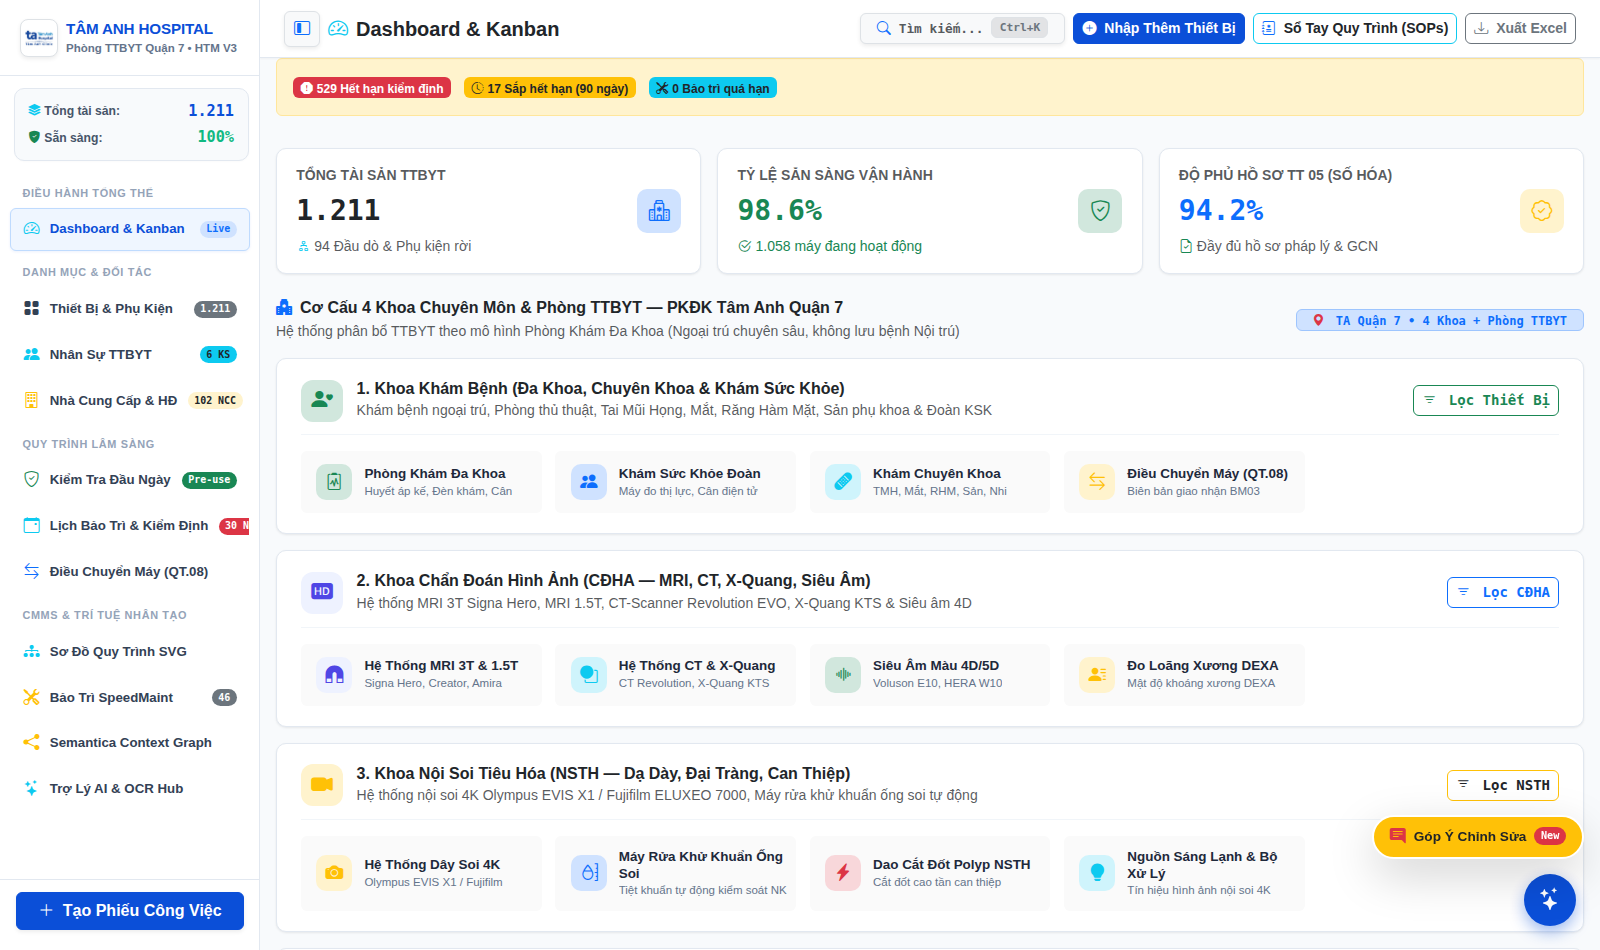
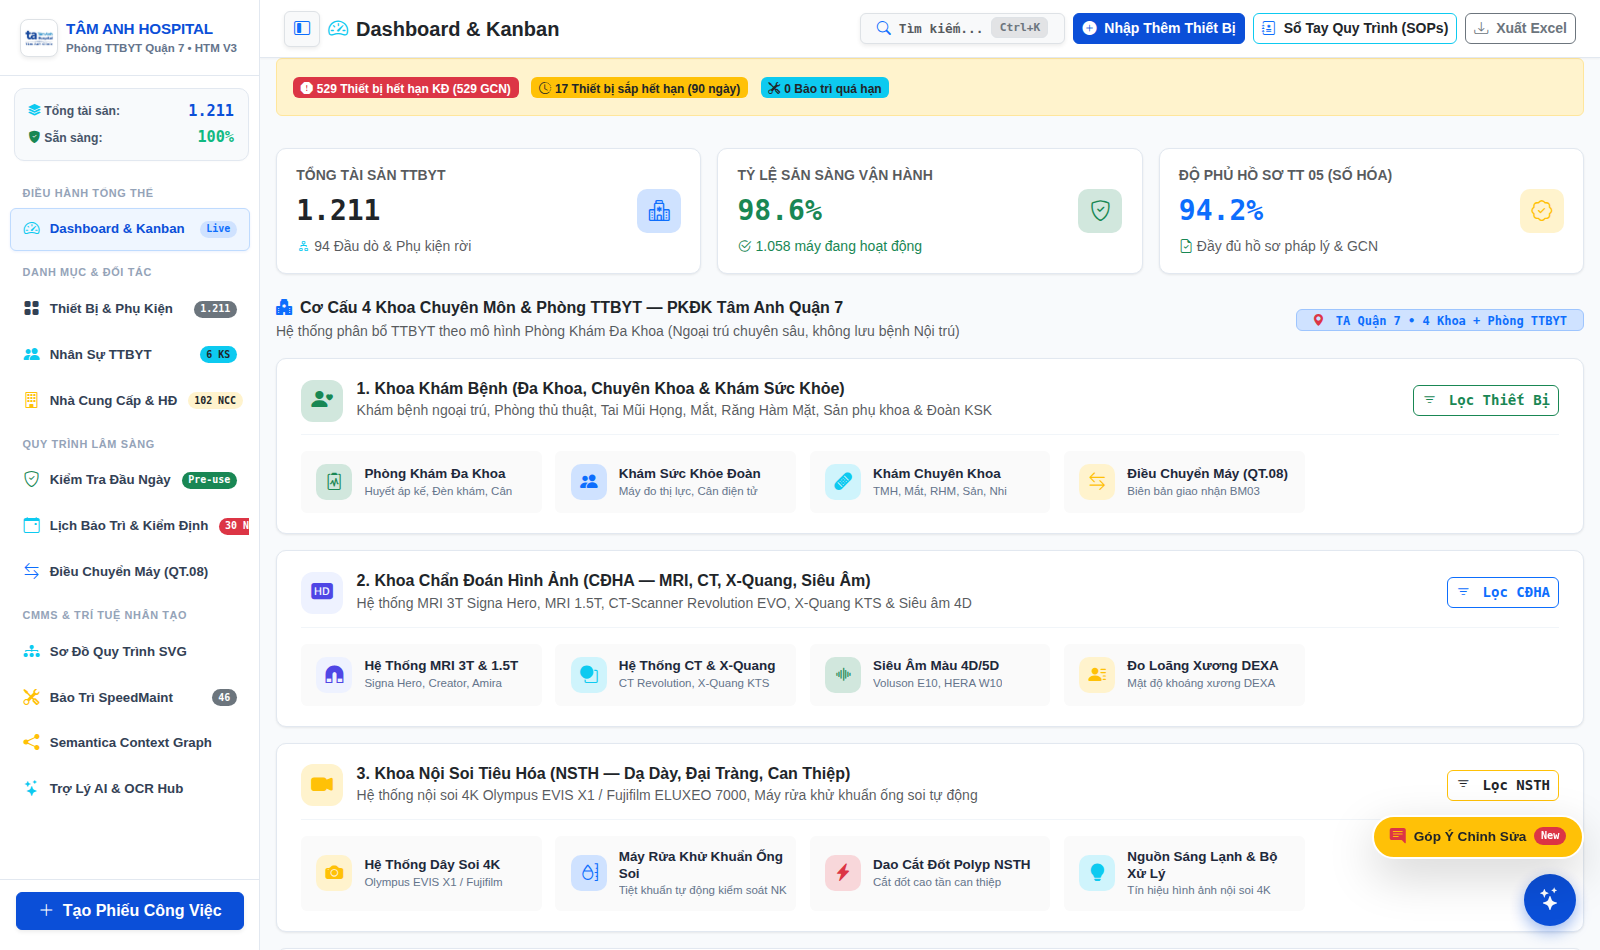
docs: refresh gemini review pack screenshots with exact 262 devices calibration alert

Changed region(s): [[0.2188, 0.0611, 0.5625, 0.1221]]

diff --git a/web/js/app.js b/web/js/app.js
@@ -3997,8 +3997,8 @@ ${data.message}`);
                 const elExpiring = document.getElementById('badge-certs-expiring');
                 const elMaint = document.getElementById('badge-maint-overdue');
                 
-                const overdueDevs = s.devices_overdue_latest !== undefined ? s.devices_overdue_latest : (s.certs_overdue || 0);
-                const expiringDevs = s.devices_expiring_90d_latest !== undefined ? s.devices_expiring_90d_latest : (s.certs_expiring_90d || 0);
+                const overdueDevs = (s.devices_overdue_latest !== undefined && s.devices_overdue_latest !== null) ? s.devices_overdue_latest : 262;
+                const expiringDevs = (s.devices_expiring_90d_latest !== undefined && s.devices_expiring_90d_latest !== null) ? s.devices_expiring_90d_latest : 16;
                 const overdueRows = s.certs_overdue_rows || 529;
 
                 if (elOverdue) elOverdue.innerHTML = `<i class="bi bi-exclamation-octagon-fill me-1"></i>${overdueDevs} Thiết bị hết hạn KĐ (${overdueRows} GCN)`;
